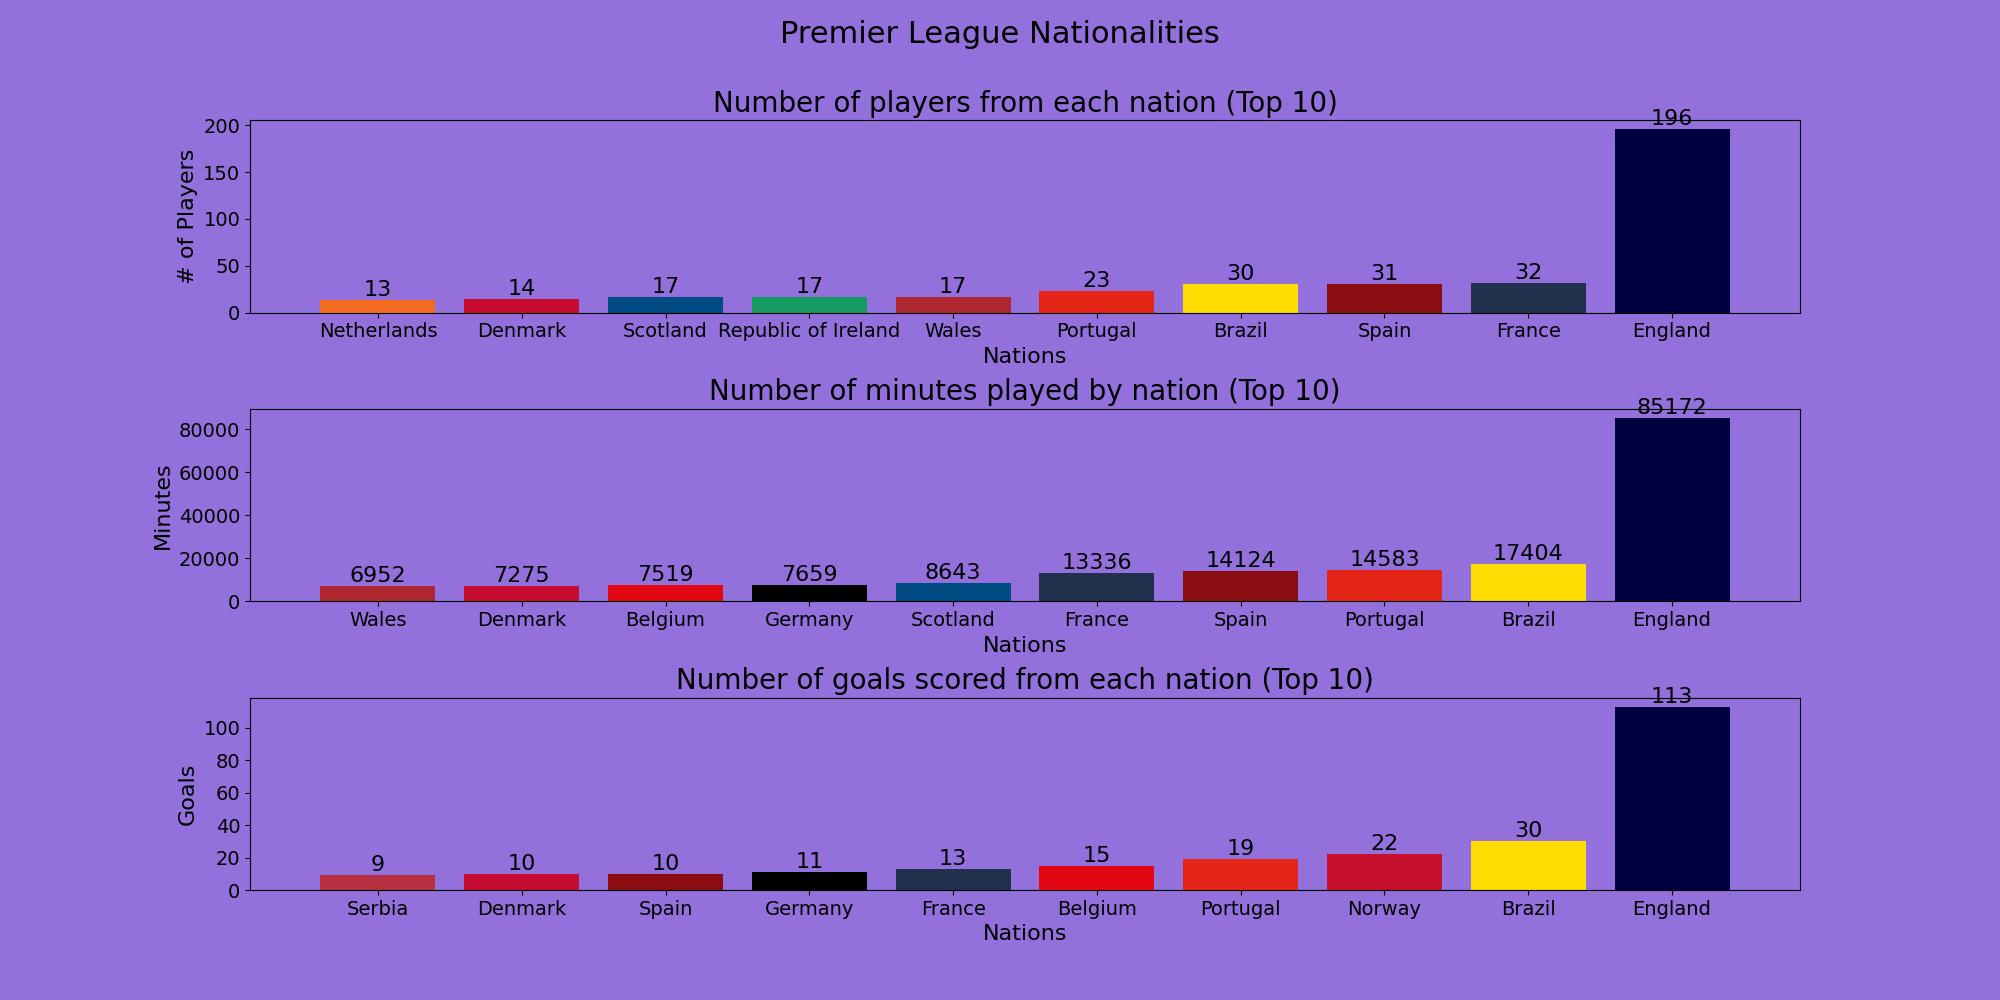
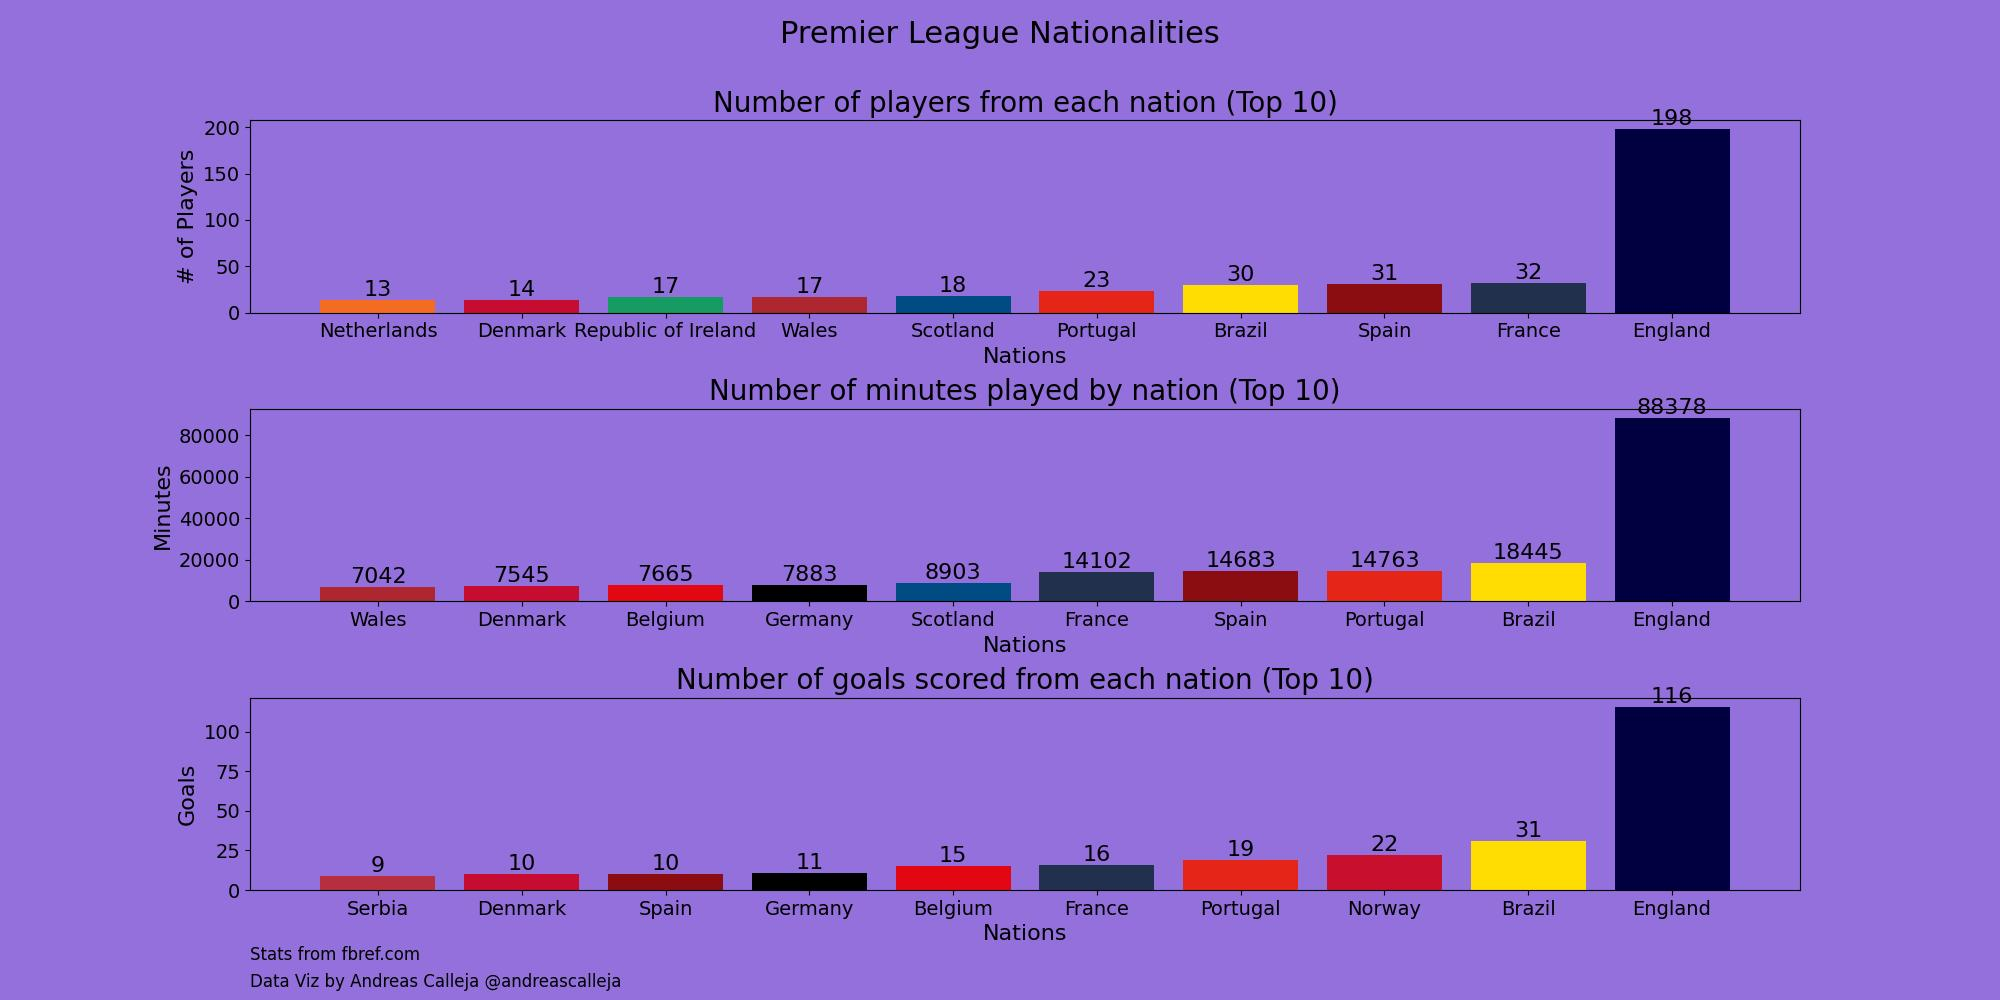
Added annotations

diff --git a/nationalities.py b/nationalities.py
@@ -248,13 +248,18 @@ def nations_played(urls):
         for label in (ax2.get_xticklabels() + ax2.get_yticklabels()):
             label.set_fontsize(14)
 
+        ax2.annotate('Stats from fbref.com', (0,0), (0,-40), fontsize=12, 
+              xycoords='axes fraction', textcoords='offset points', va='top')
+        ax2.annotate('Data Viz by Andreas Calleja @andreascalleja', (0,0), (0,-60), fontsize=12, 
+              xycoords='axes fraction', textcoords='offset points', va='top')
+
         fig.savefig(f'images/{competition}-nations.jpg')
 
     fig = plt.figure(figsize=(20, 10))
     fig.subplots_adjust(hspace=0.5)
     gs = GridSpec(nrows=3, ncols=1)
     fig.suptitle(f'Top 5 Leagues Nationalities', fontsize=22)
-    fig.patch.set_facecolor('aquamarine')
+    fig.patch.set_facecolor('beige')
 
     df_total_players = df_total_players.groupby('Nation', as_index=False).sum()
     df_total_players = df_total_players.sort_values(by=["# Players"])
@@ -266,7 +271,7 @@ def nations_played(urls):
     ax0.set_title('Number of players from each nation (Top 10)', size=20)
     ax0.set_xlabel('Nations', size=16)
     ax0.set_ylabel('# of Players', size=16)
-    ax0.set_facecolor('aquamarine')
+    ax0.set_facecolor('beige')
     for label in (ax0.get_xticklabels() + ax0.get_yticklabels()):
             label.set_fontsize(14)
 
@@ -280,7 +285,7 @@ def nations_played(urls):
     ax1.set_title('Minutes played from each nation (Top 10)', size=20)
     ax1.set_xlabel('Nations', size=16)
     ax1.set_ylabel('Minutes', size=16)
-    ax1.set_facecolor('aquamarine')
+    ax1.set_facecolor('beige')
     for label in (ax1.get_xticklabels() + ax1.get_yticklabels()):
             label.set_fontsize(14)
 
@@ -299,9 +304,14 @@ def nations_played(urls):
     ax2.set_title('Goals scored from each nation (Top 10)', size=20)
     ax2.set_xlabel('Nations', size=16)
     ax2.set_ylabel('Goals', size=16)
-    ax2.set_facecolor('aquamarine')
+    ax2.set_facecolor('beige')
     for label in (ax2.get_xticklabels() + ax2.get_yticklabels()):
             label.set_fontsize(14)
+
+    ax2.annotate('Stats from fbref.com', (0,0), (0,-40), fontsize=12, 
+              xycoords='axes fraction', textcoords='offset points', va='top')
+    ax2.annotate('Data Viz by Andreas Calleja @andreascalleja', (0,0), (0,-60), fontsize=12, 
+            xycoords='axes fraction', textcoords='offset points', va='top')
     
     fig.savefig(f'images/top-5-leagues-combined.jpg')
 
@@ -343,4 +353,4 @@ def main():
 if __name__ == '__main__':
     main()
 
-# Make race chart
+# Try to add small logos with white background
